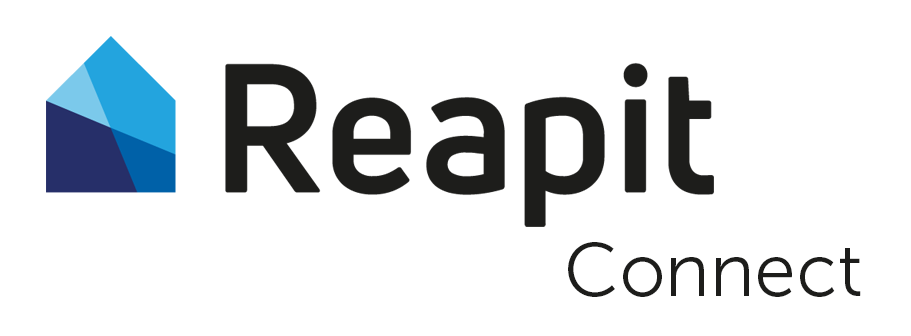
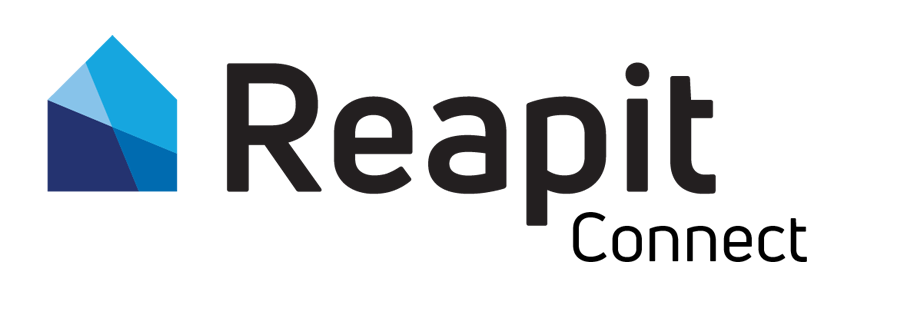
feat: #3132 reapit connect graphic (#3133)
* chore: #3132 update reapit connect logos

* feat: #3132 update messaging

diff --git a/packages/developer-portal/src/core/private-route-wrapper.tsx b/packages/developer-portal/src/core/private-route-wrapper.tsx
@@ -65,7 +65,7 @@ export const PrivateRouteWrapper: React.FunctionComponent<PrivateRouteWrapperPro
   }, [memberUpdateState, showTermsModal, setShowTermsModal, connectLoginRedirect])
 
   useEffect(() => {
-    if (connectSession && connectSession.loginIdentity) {
+    if (connectSession && connectSession.loginIdentity && connectSession.loginIdentity.developerId) {
       if (!currentMember.id) {
         dispatch(fetchCurrentMember())
       }
